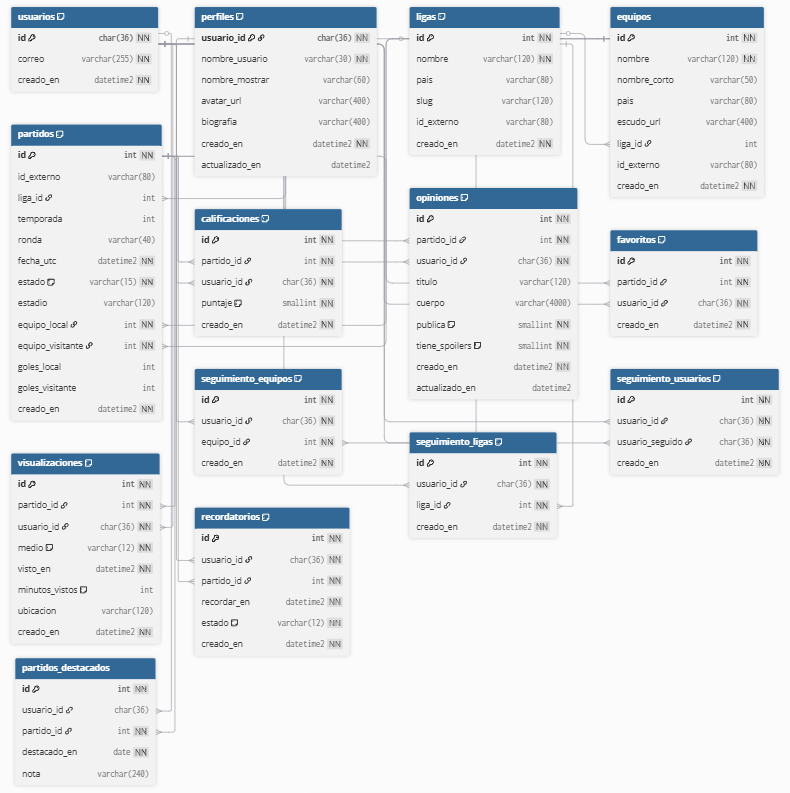
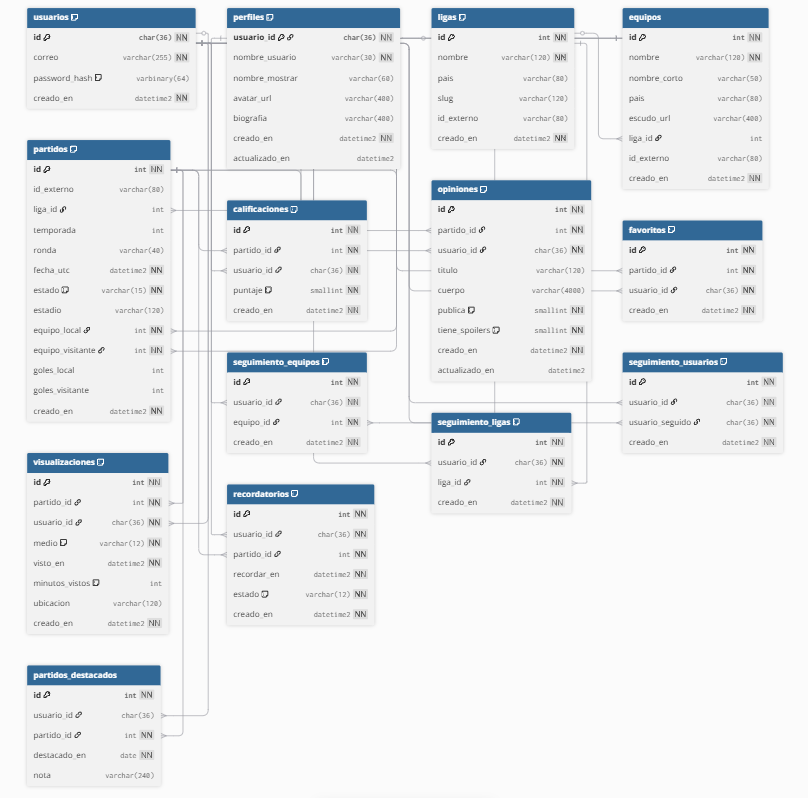
agregue contraseña hasheada en usuario

diff --git a/docs/capitulo-4-resultados.md b/docs/capitulo-4-resultados.md
@@ -7,14 +7,16 @@ El modelo consolidado cubre el ciclo completo de interacción en Tribuneros: ide
 El script [`script/creacion.sql`](../script/creacion.sql) materializa el modelo lógico en SQL Server. Entre los puntos más relevantes se destacan:
 
 - Declaración explícita de claves primarias (`PK_*`) y foráneas con reglas de eliminación (`ON DELETE`).
+- Inclusión de la columna `password_hash` en la tabla `usuarios` para el almacenamiento seguro de contraseñas.
 - Restricciones de dominio (`CHECK`) para estados de partidos (`estado`), medios de visualización (`medio`), rangos de puntaje y estados de recordatorios.
 - Índices de apoyo (`IX_*`) para optimizar consultas por usuario, partido y fechas clave.
 - Valores predeterminados de fechas mediante `CURRENT_TIMESTAMP` para trazabilidad temporal.
+- Implementación de procedimientos almacenados (`sp_usuario_set_password_simple`, `sp_usuario_login_simple`) para la gestión de autenticación.
 
 La ejecución del script crea la base `tribuneros_bdi` y garantiza un estado limpio al reiniciar el entorno (drop condicional de tablas).
 
 ## Carga representativa y consultas
-- **Datos de ejemplo**: [`script/carga_inicial.sql`](../script/carga_inicial.sql) inserta usuarios, ligas, equipos y un partido emblemático (River vs Boca), junto con interacciones asociadas (visualización, calificación, opinión, favorito y recordatorio).
+- **Datos de ejemplo**: `script/carga_inicial.sql` inserta usuarios con contraseñas iniciales, ligas, equipos y un partido emblemático (River vs Boca), junto con interacciones asociadas (visualización, calificación, opinión, favorito y recordatorio).
 - **Validación operativa**: [`script/verificacion.sql`](../script/verificacion.sql) ofrece consultas para comprobar integridad referencial (joins entre partidos y equipos, conteo de calificaciones/opiniones) y escenarios de negocio (partidos destacados vigentes).
 - **Métricas rápidas**: [`script/conteo.sql`](../script/conteo.sql) resume cantidades por entidad para monitorear la carga.
 

diff --git a/docs/capitulo-2-marco-conceptual.md b/docs/capitulo-2-marco-conceptual.md
@@ -18,7 +18,7 @@
 1. **Plataforma social (social network)**
 
    * *Definición operativa*: sistema multiusuario con perfiles, publicaciones y vínculos (seguir equipos, marcar favoritos), persistidos en tablas `usuarios`, `perfiles`, `opiniones`, `favoritos` y `seguidos`.
-   * *Rol*: infraestructura sociotécnica que habilita la interacción y el efecto red.
+   * *Rol*: infraestructura sociotécnica que habilita la interacción, el efecto red y la gestión segura de acceso.
 
 2. **Contenido generado por usuarios (UGC)**
 
@@ -71,6 +71,13 @@
     * *Rol*: ordenar el feed y priorizar contenido de calidad.
 
 12. **Integridad e interoperabilidad de datos**
+
+    * *Definición operativa*: claves foráneas y estados válidos (`estado` en `partidos`, `medio` en `visualizaciones`, `estado` en `recordatorios`) que garantizan consistencia entre `ligas`, `equipos` y `partidos`.
+    * *Rol*: base para reportes confiables y evolución del modelo.
+
+13. **Autenticación y Seguridad**
+    * *Definición operativa*: Uso de hashes criptográficos (SHA2_512) para almacenar contraseñas de usuarios en `usuarios.password_hash` y procedimientos almacenados para la gestión (`sp_usuario_set_password_simple`) y verificación (`sp_usuario_login_simple`) de credenciales.
+    * *Rol*: Proteger el acceso a las cuentas de usuario y asegurar la confidencialidad de las contraseñas.
 
     * *Definición operativa*: claves foráneas y estados válidos (`estado` en `partidos`, `medio` en `visualizaciones`, `estado` en `recordatorios`) que garantizan consistencia entre `ligas`, `equipos` y `partidos`.
     * *Rol*: base para reportes confiables y evolución del modelo.

diff --git a/docs/diccionario_datos.md b/docs/diccionario_datos.md
@@ -17,6 +17,7 @@ Este documento describe los objetos del esquema `tribuneros_bdi` implementado en
 |-------------|------------|-------|-------------------|---------------|-------------|
 | `id`        | `CHAR(36)` | NO    | —                 | `PK_usuarios` | UUID (formato 36 chars) |
 | `correo`    | `VARCHAR(255)` | NO | —                 | `UQ_usuarios_correo` | Correo único |
+| `password_hash`| `VARBINARY(64)`| SÍ | —              | —             | Hash de la contraseña (SHA2_512) |
 | `creado_en` | `DATETIME2`| NO    | — (se carga a mano)| —             | Fecha de alta |
 
 ### Tabla: `perfiles`
@@ -191,6 +192,7 @@ Este documento describe los objetos del esquema `tribuneros_bdi` implementado en
 - Todas las claves foráneas apuntan a claves primarias definidas explícitamente y contemplan reglas de eliminación (`CASCADE`, `SET NULL`, `NO ACTION`).
 - Las restricciones `CHECK` aseguran dominios válidos para estados, medios y rangos numéricos.
 - Los índices secundarios (`IX_*`) facilitan consultas frecuentes por usuario, partido y fechas clave.
+- Se han implementado procedimientos almacenados (`dbo.sp_usuario_set_password_simple`, `dbo.sp_usuario_login_simple`) para la gestión segura de contraseñas mediante hashing SHA2_512.
 - El modelo fue verificado con los scripts de carga y validación incluidos en la carpeta `script/` empleando PostgreSQL 15 en modo ANSI SQL.
 - El esquema completo se inicializa mediante `script/creacion.sql` y se complementa con cargas de ejemplo en `script/carga_inicial.sql`.
 

diff --git a/docs/capitulo-3-metodologia.md b/docs/capitulo-3-metodologia.md
@@ -16,6 +16,7 @@ Se parte de los requisitos funcionales definidos en el [Capítulo I](capitulo-1-
 - **Definición del esquema**: el script [`script/creacion.sql`](../script/creacion.sql) crea la base `tribuneros_bdi`, define tablas y restricciones y aplica índices de apoyo.
 - **Poblado inicial**: [`script/carga_inicial.sql`](../script/carga_inicial.sql) inserta un conjunto representativo de ligas, equipos, partidos y actividades de usuarios para ejercitar las restricciones.
 - **Validaciones**: [`script/verificacion.sql`](../script/verificacion.sql) incluye consultas de consistencia y verificaciones funcionales; [`script/conteo.sql`](../script/conteo.sql) provee métricas rápidas para auditoría.
+- **Procedimientos almacenados**: se incluyen procedimientos para la gestión segura de contraseñas (`sp_usuario_set_password_simple`) y la verificación de credenciales (`sp_usuario_login_simple`).
 - **Orden de ejecución**: se recomienda el flujo indicado en el [README](../README.md#cómo-ejecutar-los-scripts) utilizando `:r` desde SQL Server Management Studio o `sqlcmd`.
 
 ## Herramientas y control de calidad
@@ -43,6 +44,7 @@ Se parte de los requisitos funcionales definidos en el [Capítulo I](capitulo-1-
 Table usuarios {
   id char(36) [pk, not null]
   correo varchar(255) [not null, unique]
+  password_hash varbinary(64) [note: 'Hash de la contraseña (SHA2_512)']
   creado_en datetime2 [not null]
   
   indexes {
